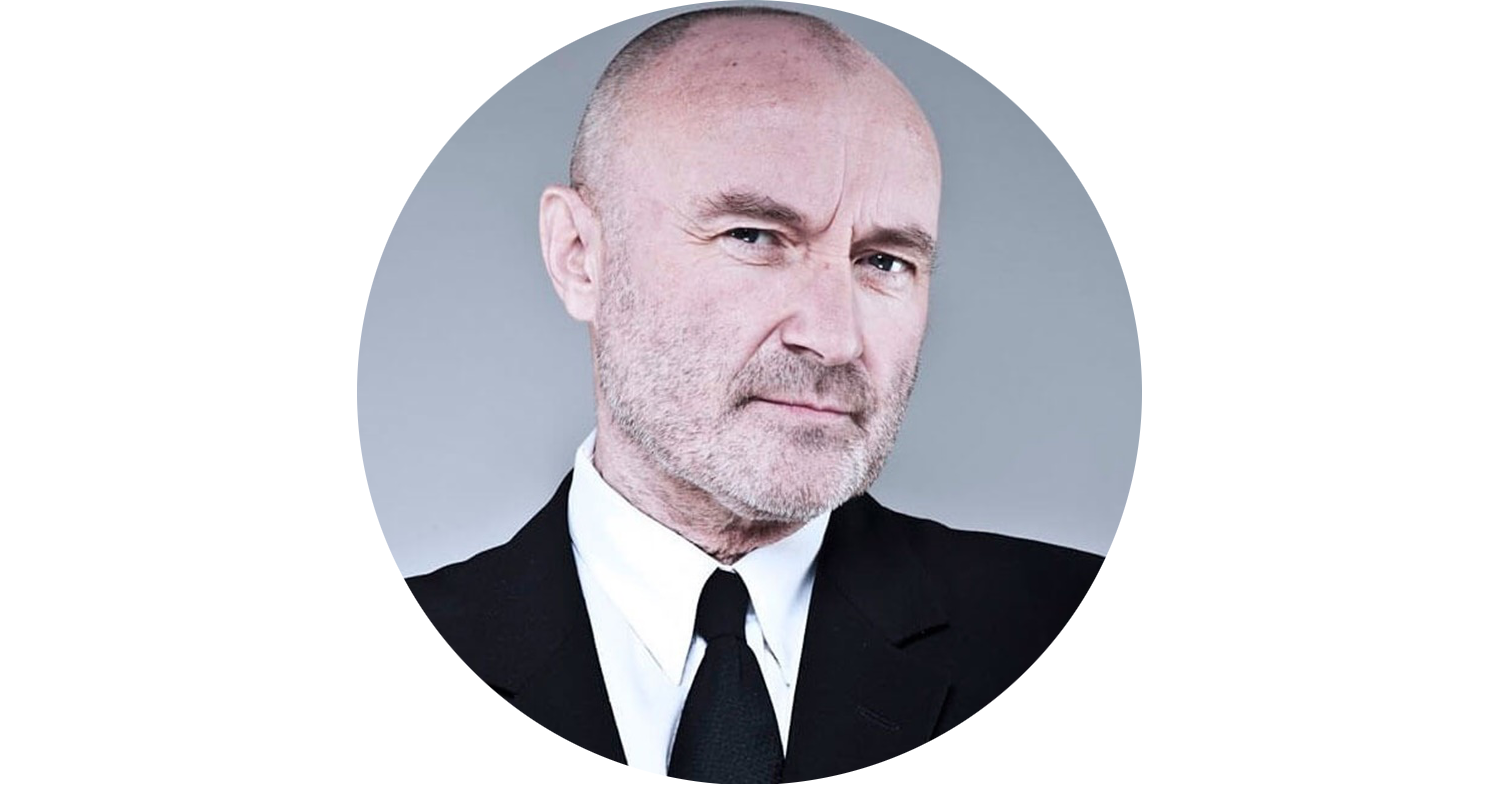
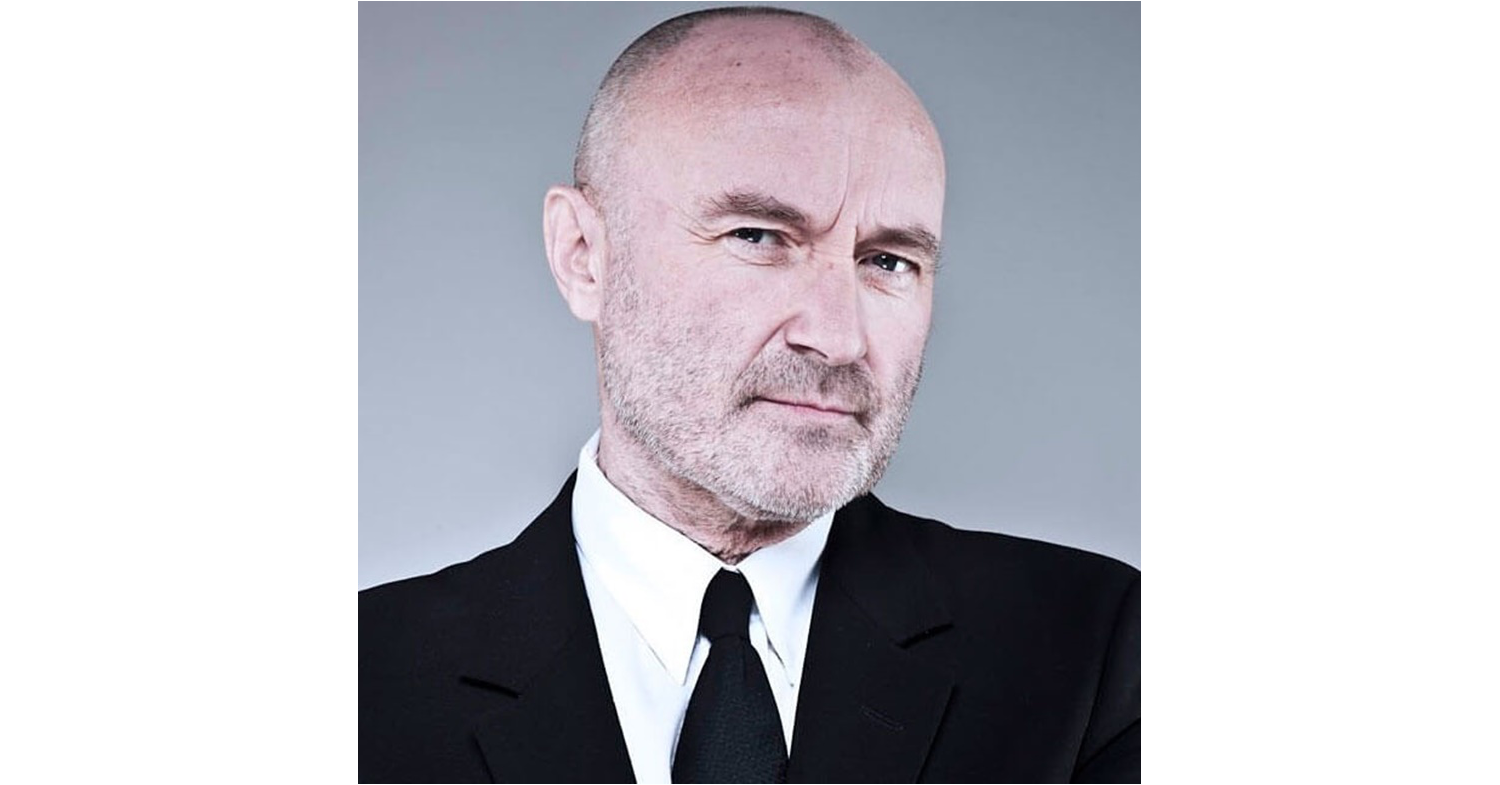
substituindo fotos

diff --git a/css/main.scss b/css/main.scss
@@ -28,11 +28,13 @@ $primary-color: rgba(0, 0, 0, 0.8);
 
         .artistPhoto {
             box-shadow: 0 2px 5px $primary-color;
-            width: 150px;
-            height: 150px;
+            width: 180px;
+            height: 180px;
             margin: 0 auto;
             border-radius: 100%;
-            //overflow: hidden;
+            background-image: url(../images/elton-john.png);
+            background-position: center;
+            background-size: cover;
         }
 
         .description {

diff --git a/css/main.css b/css/main.css
@@ -26,10 +26,13 @@
 }
 .workspace .musicPlayer .artistPhoto {
   box-shadow: 0 2px 5px rgba(0, 0, 0, 0.8);
-  width: 150px;
-  height: 150px;
+  width: 180px;
+  height: 180px;
   margin: 0 auto;
   border-radius: 100%;
+  background-image: url(../images/elton-john.png);
+  background-position: center;
+  background-size: cover;
 }
 .workspace .musicPlayer .description {
   margin: 20px 0;

diff --git a/index.html b/index.html
@@ -15,9 +15,9 @@
     <div class="workspace">
         <div class="musicPlayer">
             <div class="artistPhoto">
-                <img src="" alt="artist photo">
+               <!-- background from CSS -->
             </div>
-            
+
             <div class="description">
                 <h2>Nome da música</h2>
                 <i>Nome do Artista</i>
